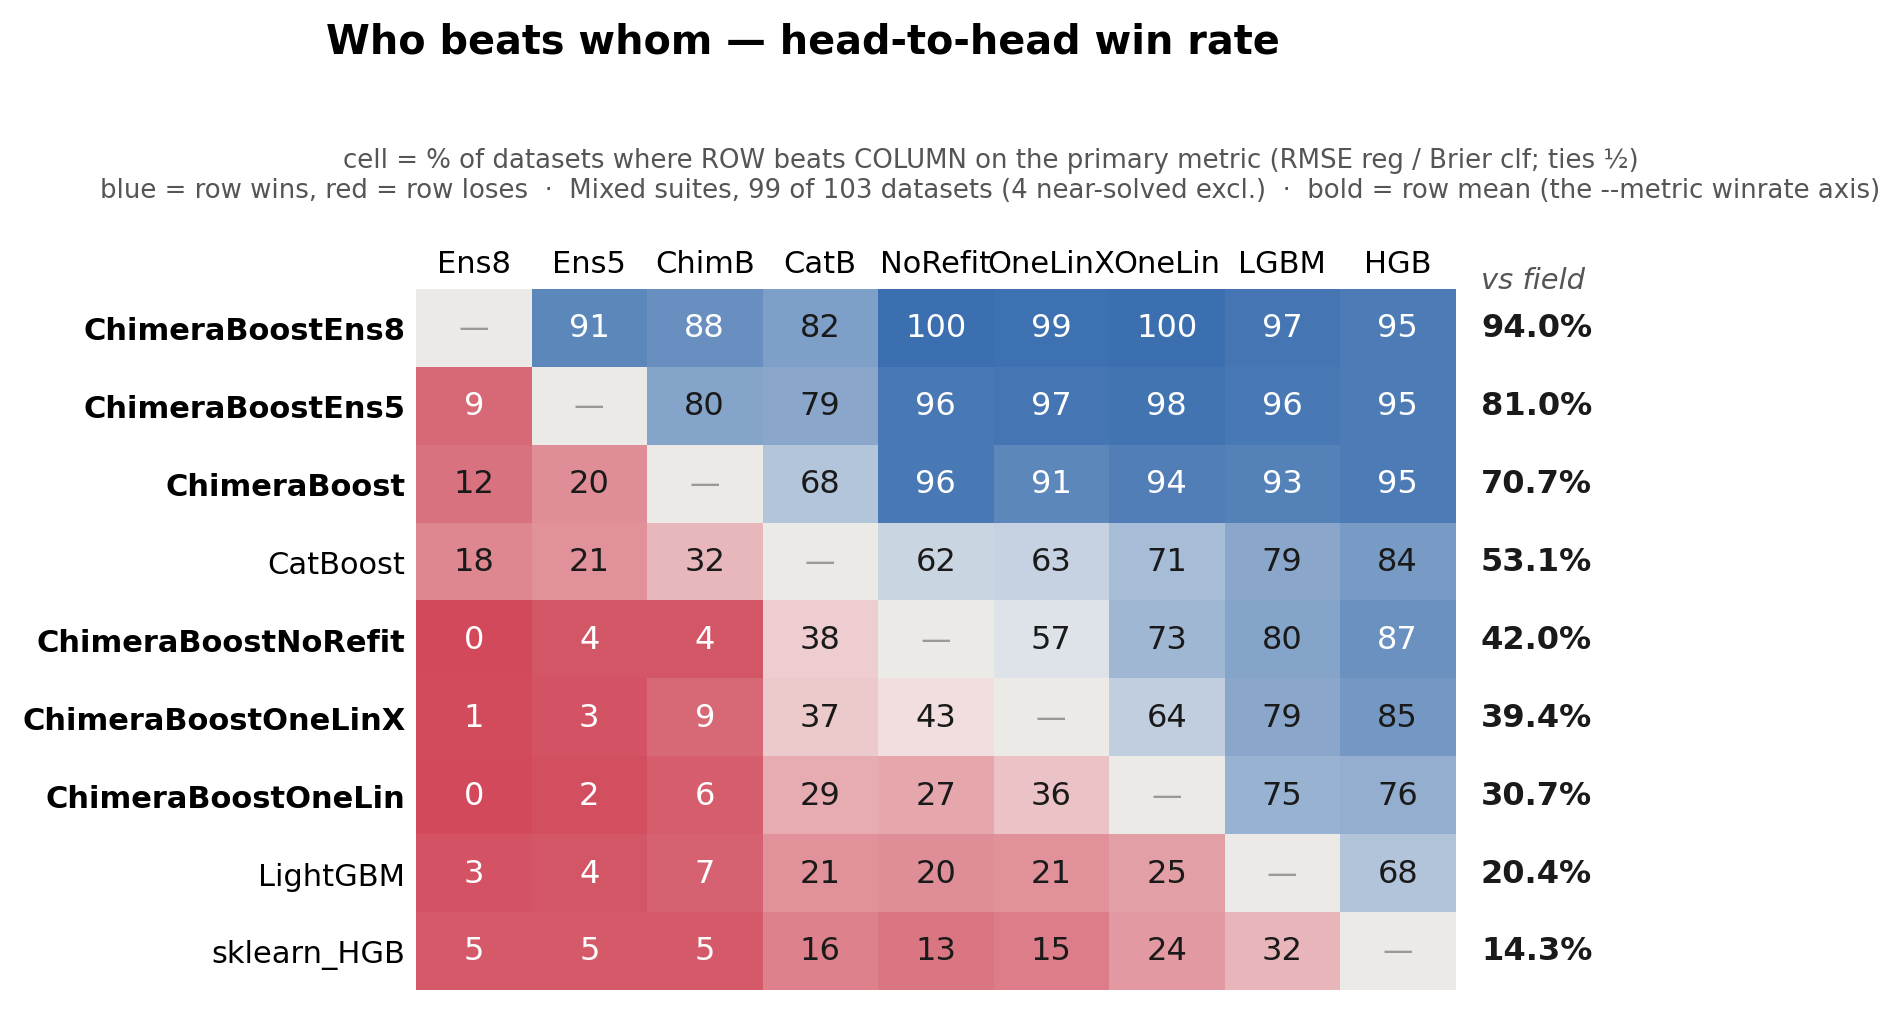
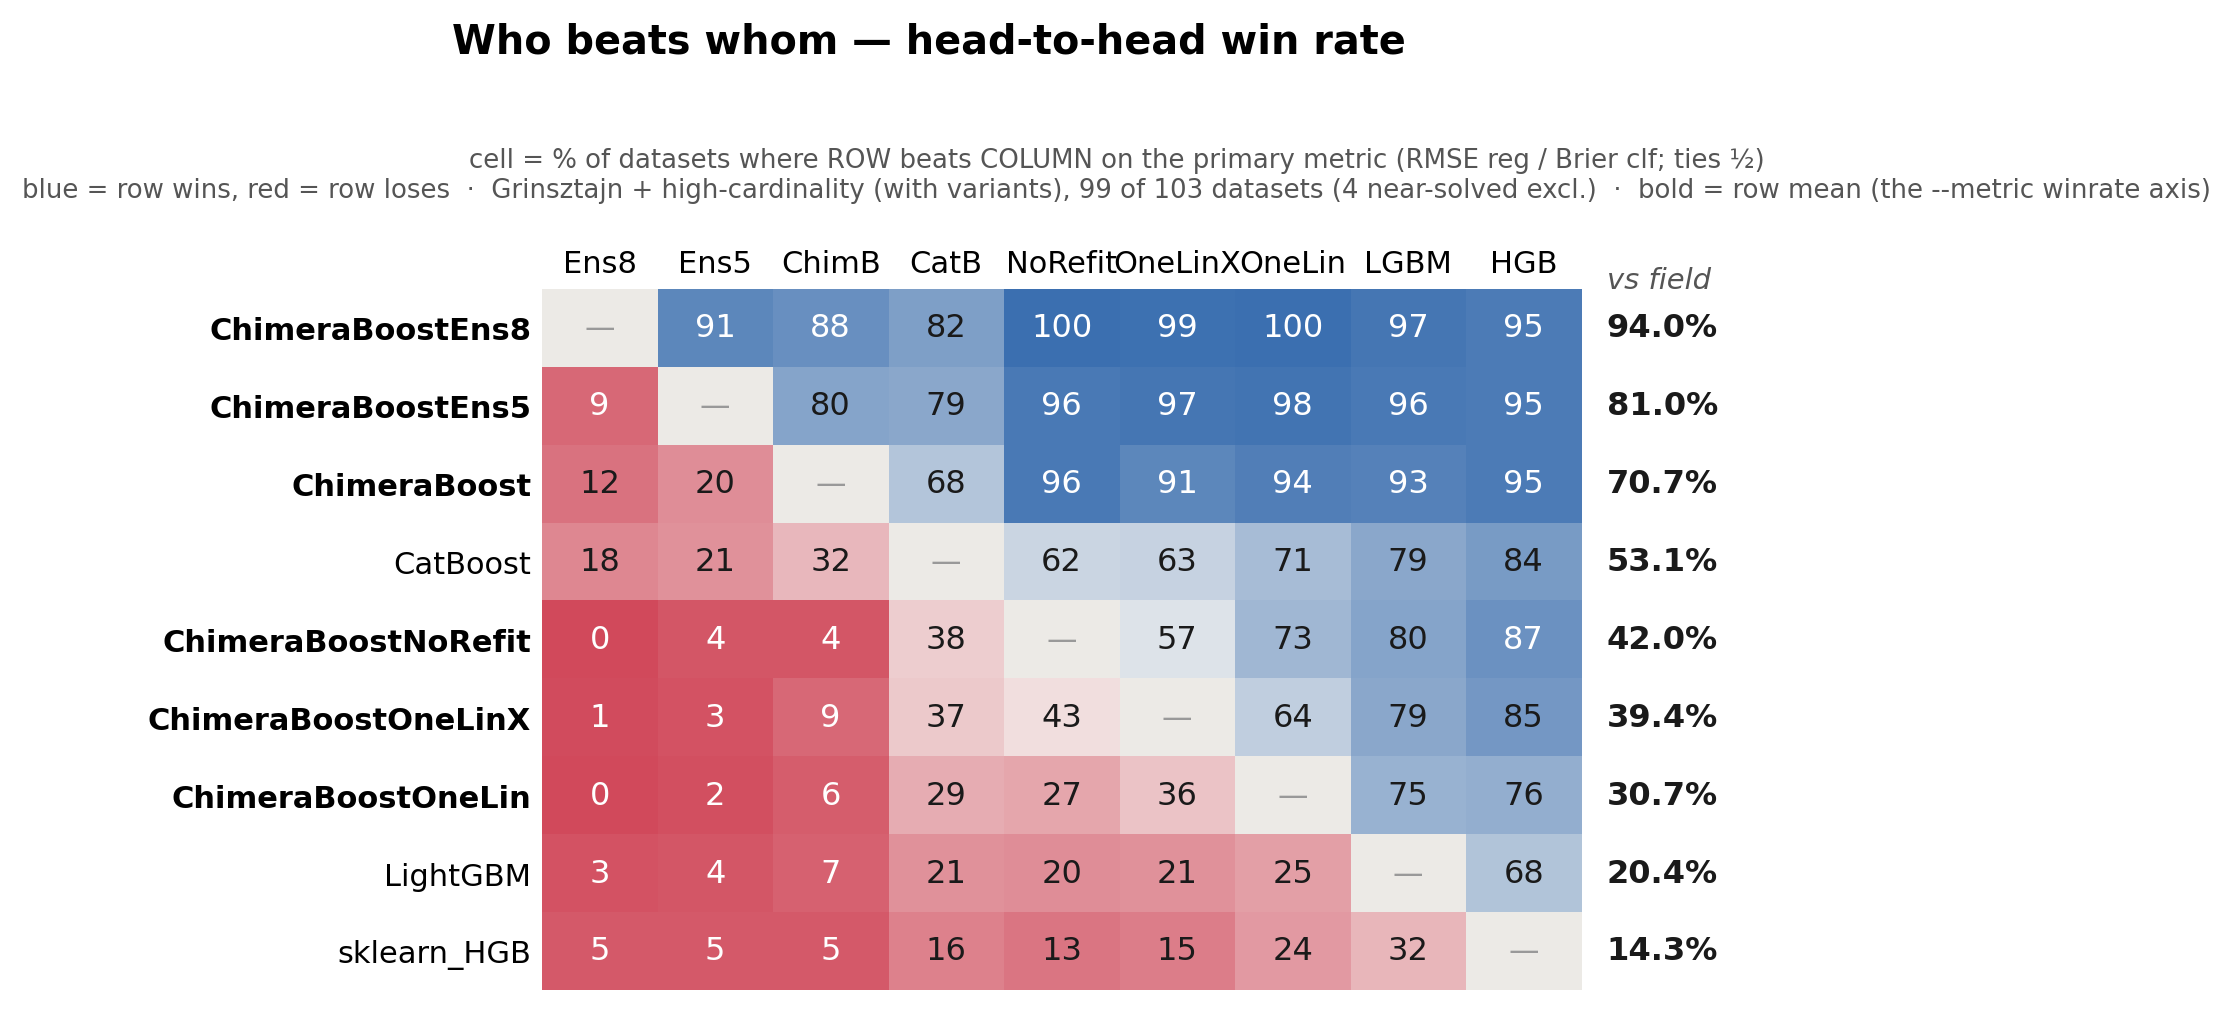
Refresh the internal Pareto charts with the coverage-honest frontier
Regenerated images/pareto.png and images/winrate_matrix.png from the
2026-09-22 decision run (20260922-144219, without the count-column control
arm) with make_pareto.py as merged in #154. The title now names both
suites and their variants; sklearn's HGB, scored only on the 36 of 44
classification and 53 of 59 regression datasets it can fit, is labelled
with its coverage and kept off the frontier. The classification frontier
reads LightGBM, the default, Ens5, Ens8, with CatBoost dominated.
PROJECT_STATUS describes the coverage rule.

diff --git a/benchmarks/CAMPAIGN_PLAN.md b/benchmarks/CAMPAIGN_PLAN.md
@@ -459,7 +459,13 @@ forecast: HIT on every count (partial HGB, the full-coverage frontier with
 the default on it, regression unchanged).
 verdict: **PASS → PR for the maintainer** (touches `tests/`); a gate-
 adjacent change stated plainly in the PR: the internal chart's frontier
-marks move (no ship gate reads them).
+marks move (no ship gate reads them). **MERGED by the maintainer as PR
+#154 (ed01966).** Charts refreshed the same night from
+`20260922-144219.json` without the control arm (`images/pareto.png`,
+`images/winrate_matrix.png`): the new title, HGB labelled 36/44 and 53/59,
+the classification frontier LightGBM → the default → Ens5 → Ens8;
+`docs/PROJECT_STATUS.md` gains the coverage rule. That PR carries images,
+so it waits for the maintainer.
 next: the named alternates are exhausted. Waiting on the maintainer: the
 multiclass rate/Hessian trade (I052), S1 parked to 2026-09-29, the binary
 linear-leaf race pointer (I047), a beam refill, and regenerating

diff --git a/docs/PROJECT_STATUS.md b/docs/PROJECT_STATUS.md
@@ -85,6 +85,11 @@ explodes on a near-perfectly-solved dataset. Kept as two panels rather than one
 average because BSS and R² occupy different parts of the 0..1 range, and averaging
 buries the classification leg — which is where the field actually spreads.
 
+A model scored on fewer datasets than its panel (sklearn's HGB skips the
+high-cardinality sets it cannot fit, so it is averaged over an easier subset) is
+labelled with its coverage, for example "HGB (36/44)", and is never placed on the
+frontier. The chart's title names the suites the run actually pooled.
+
 The cost, stated plainly: the axis is compressed. The whole field typically sits
 within ~0.02 of skill, so both panels are truncated dot plots — read the tick
 labels, not the visual gaps. This is expected to be superseded by TabArena scores
